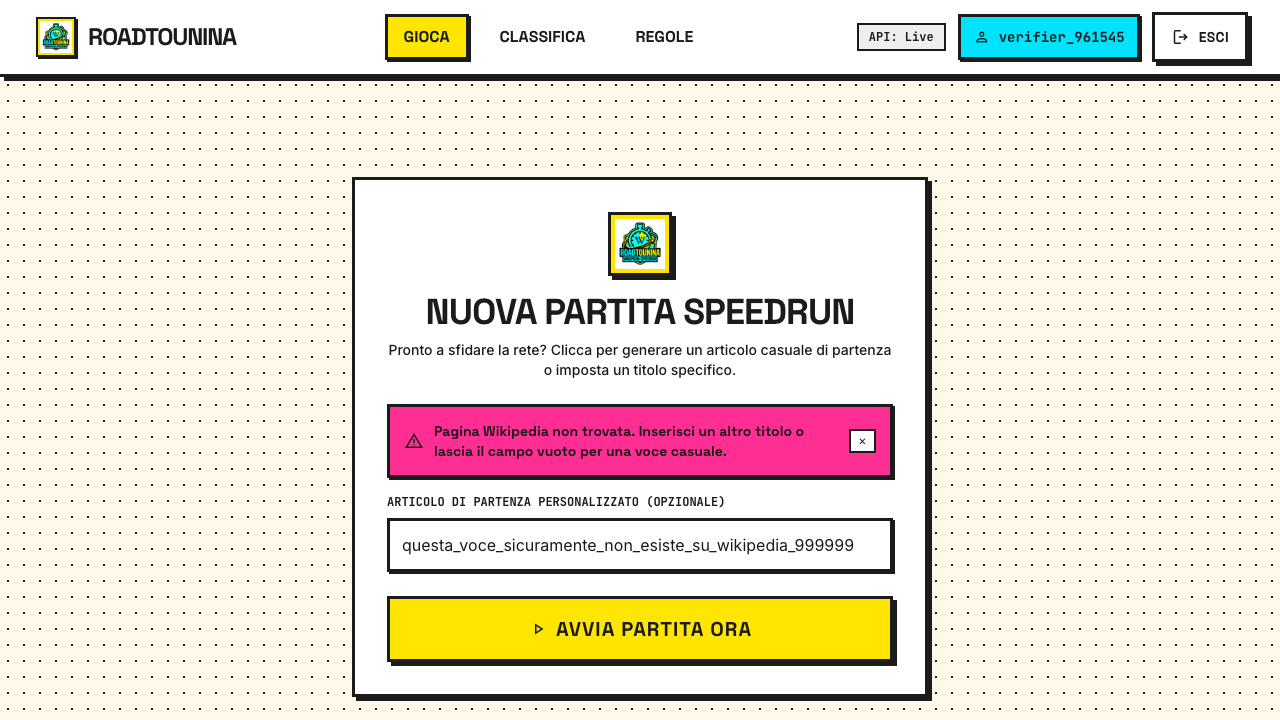
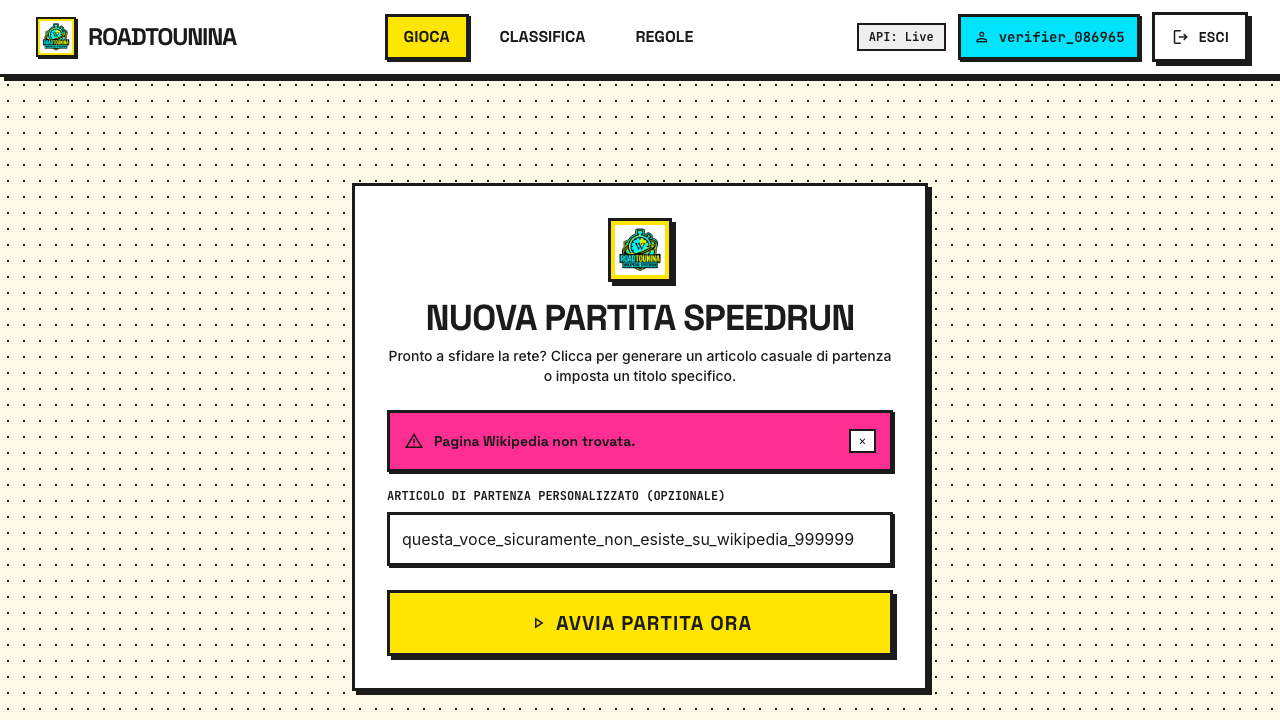
fix(useGameEngine): remove unused timerRef and simplify interval management

Changed region(s): [[0.2812, 0.2444, 0.75, 0.9778], [0.8438, 0.0306, 0.875, 0.0611]]

diff --git a/frontend/src/hooks/useGameEngine.ts b/frontend/src/hooks/useGameEngine.ts
@@ -1,4 +1,4 @@
-import { useState, useEffect, useCallback, useRef } from 'react';
+import { useState, useEffect, useCallback } from 'react';
 import axios from 'axios';
 import { Game, WikiArticleContent } from '../types';
 import { gameApi } from '../api';
@@ -42,7 +42,6 @@ export function useGameEngine(): UseGameEngineReturn {
   const [error, setError] = useState<string | null>(null);
   const [toastMessage, setToastMessage] = useState<string | null>(null);
 
-  const timerRef = useRef<ReturnType<typeof setInterval> | null>(null);
 
   const showToast = useCallback((msg = 'Link non valido o non enciclopedico') => {
     setToastMessage(msg);
@@ -62,19 +61,17 @@ export function useGameEngine(): UseGameEngineReturn {
   useEffect(() => {
     if (game?.status === 'IN_PROGRESS') {
       setElapsedSeconds(calculateElapsed(game.startTime));
-      timerRef.current = setInterval(() => {
+      const timer = setInterval(() => {
         setElapsedSeconds(calculateElapsed(game.startTime));
       }, 1000);
-    } else if (game?.status === 'COMPLETED') {
+      return () => clearInterval(timer);
+    }
+    if (game?.status === 'COMPLETED') {
       setElapsedSeconds(calculateElapsed(game.startTime, game.endTime));
     } else {
       setElapsedSeconds(0);
     }
-
-    return () => {
-      if (timerRef.current) clearInterval(timerRef.current);
-    };
-  }, [game?.status, game?.startTime, game?.endTime]);
+  }, [game?.id, game?.status, game?.startTime, game?.endTime]);
 
   const getErrorMessage = (err: unknown, fallback: string): string => {
     if (axios.isAxiosError(err)) {
